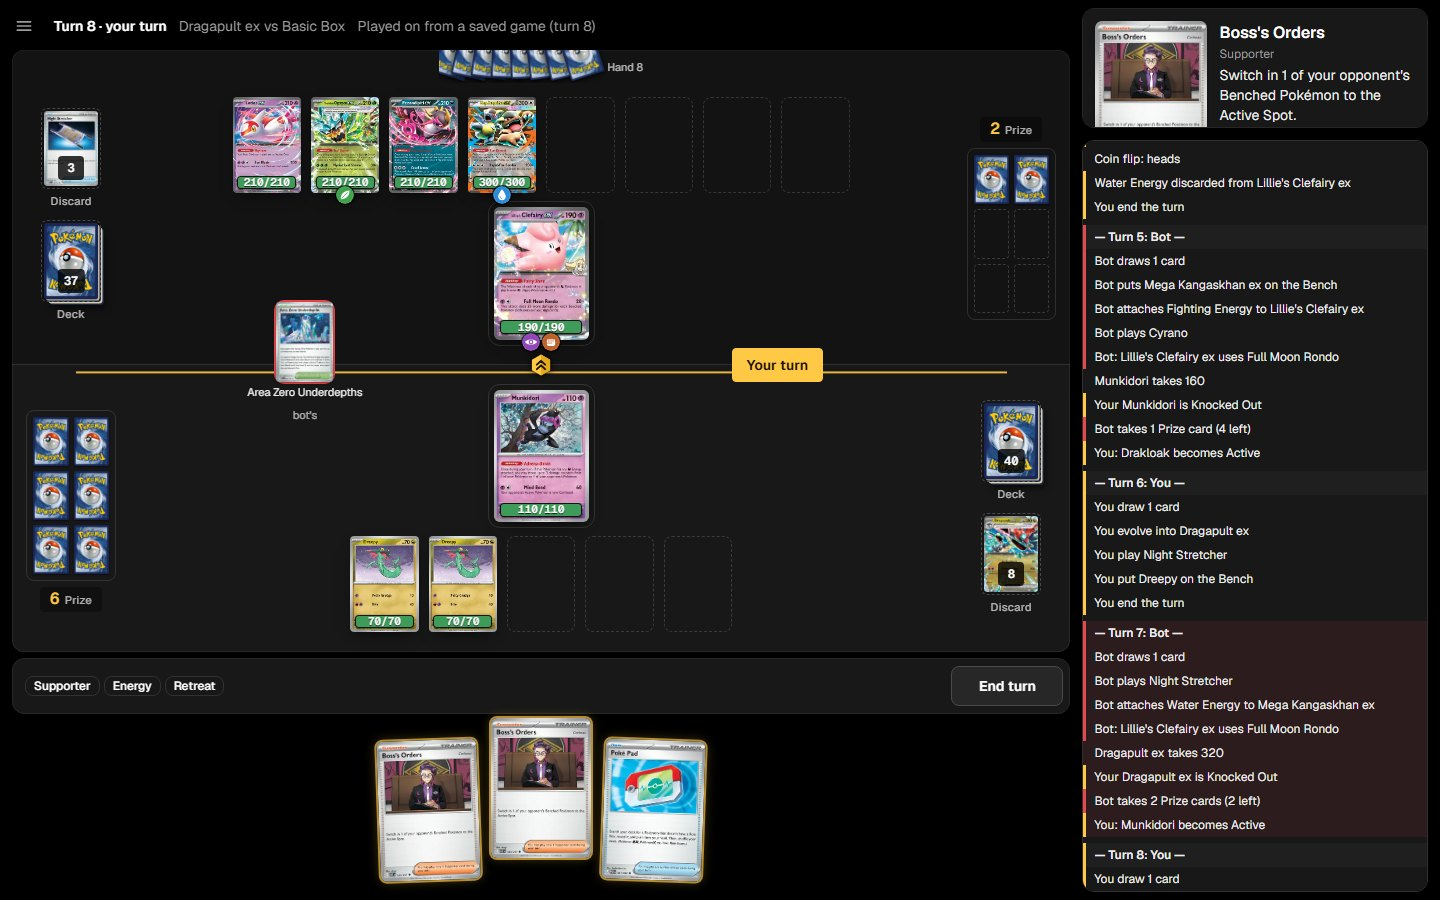
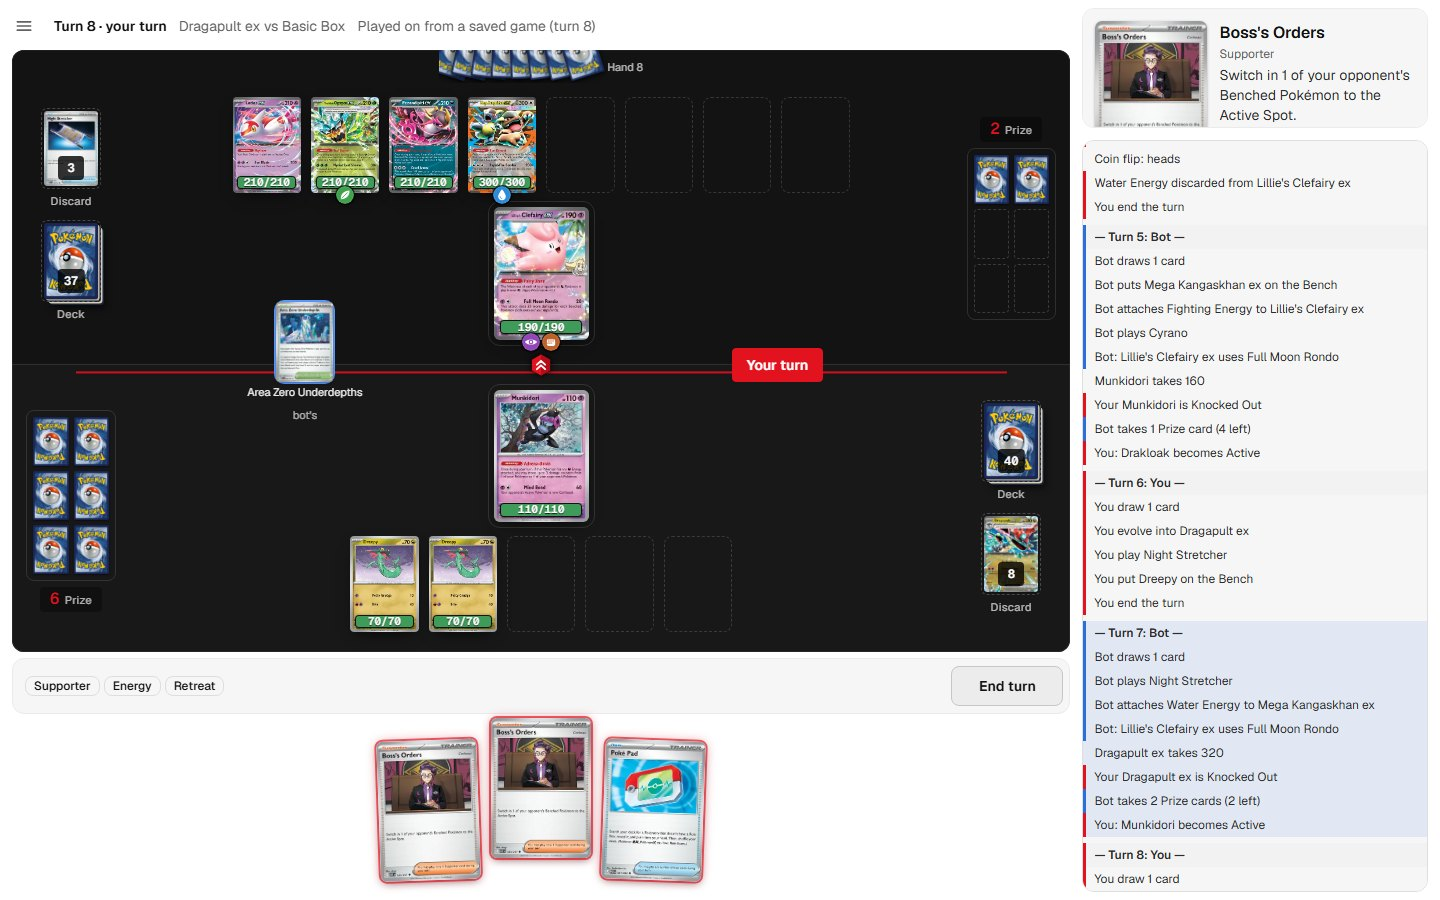
MyTrainerGym in a Pokémon Center's colours: a white page, one red, the rival in blue
The site turns light: white page, #F6F6F6 surfaces, near black ink, and a red brand (--brand) for the
main action, what can be played and your side. The bot is your rival in blue (--theirs = --rival:
its dots, log lines, turn glow and banner, a lost game); a deeper red stays for danger and mistakes,
and the review's warnings move to their own amber (--warn). The play mat keeps its dark surfaces
through a .dark scope (the board, a Pokémon's menu, the Prize pick). Logo and favicon in red and
white; home screenshots retaken.

Claude-Session: https://claude.ai/code/session_01C9NjE94n3rvf6xjp8K29Zd

diff --git a/src/components/review/TurnDetail.svelte b/src/components/review/TurnDetail.svelte
@@ -226,8 +226,8 @@
     color: #fff;
   }
   .badge.warn {
-    background: var(--accent);
-    color: var(--accent-ink);
+    background: var(--warn);
+    color: var(--warn-ink);
   }
   .badge.ok {
     border: 1px solid var(--line);
@@ -296,7 +296,7 @@
     border-radius: var(--radius-lg);
   }
   .way.bot {
-    border-color: color-mix(in srgb, var(--accent) 40%, transparent);
+    border-color: color-mix(in srgb, var(--warn) 40%, transparent);
   }
   .tag {
     display: block;
@@ -307,7 +307,7 @@
     font-weight: 600;
   }
   .way.bot .tag {
-    color: var(--accent);
+    color: var(--warn);
   }
   .moves {
     display: flex;
@@ -344,9 +344,9 @@
   .gains {
     margin-top: 12px;
     padding: 12px;
-    border: 1px solid color-mix(in srgb, var(--accent) 45%, transparent);
+    border: 1px solid color-mix(in srgb, var(--warn) 45%, transparent);
     border-radius: var(--radius-lg);
-    background: color-mix(in srgb, var(--accent) 6%, transparent);
+    background: color-mix(in srgb, var(--warn) 6%, transparent);
   }
   .gains h3 {
     margin: 0;
@@ -357,7 +357,7 @@
   }
   .gains h4 {
     margin: 12px 0 0;
-    color: var(--accent);
+    color: var(--warn);
     font-size: 12px;
     line-height: 16px;
     font-weight: 600;
@@ -383,7 +383,7 @@
     content: '•';
   }
   .facts.now li::before {
-    color: var(--accent);
+    color: var(--warn);
     content: '+';
     font-weight: 600;
   }

diff --git a/src/components/review/GameList.svelte b/src/components/review/GameList.svelte
@@ -325,7 +325,7 @@
   .card-title {
     grid-column: 1 / -1;
     margin: 0;
-    color: var(--gym);
+    color: var(--brand);
     font-size: 12px;
     line-height: 16px;
     font-weight: 600;
@@ -408,14 +408,14 @@
     height: 4px;
     overflow: hidden;
     border-radius: var(--radius-sm);
-    background: color-mix(in srgb, var(--stamp) 55%, var(--control));
+    background: color-mix(in srgb, var(--theirs) 55%, var(--control));
   }
   .vs .bar::before {
     content: '';
     position: absolute;
     inset: 0 auto 0 0;
     width: var(--w);
-    background: var(--gym);
+    background: var(--brand);
   }
   .wl {
     text-align: right;
@@ -457,8 +457,8 @@
     color: var(--primary-ink);
   }
   .res.lost {
-    border-color: color-mix(in srgb, var(--stamp) 50%, transparent);
-    color: var(--stamp);
+    border-color: color-mix(in srgb, var(--theirs) 50%, transparent);
+    color: var(--theirs);
   }
   .match {
     display: flex;
@@ -620,7 +620,7 @@
     color: var(--stamp);
   }
   .warn {
-    color: var(--accent);
+    color: var(--warn);
   }
   .nothing {
     color: var(--ink-soft);

diff --git a/src/components/game/Board.svelte b/src/components/game/Board.svelte
@@ -199,7 +199,7 @@
 {/snippet}
 
 <div
-  class="board"
+  class="board dark"
   data-zone="board"
   data-drop="play"
   class:play-ready={accepts('play')}
@@ -211,8 +211,8 @@
   <!-- The centre of the gym's floor, with its badge (BrandMark.astro's shape). -->
   <div class="midline" aria-hidden="true">
     <svg class="emblem" viewBox="0 0 32 32">
-      <path d="M16 2L28.12 9V23L16 30L3.88 23V9Z" fill="var(--gym)" />
-      <path d="M16 2L28.12 9V23L16 30Z" fill="var(--gym-deep)" />
+      <path d="M16 2L28.12 9V23L16 30L3.88 23V9Z" fill="var(--brand)" />
+      <path d="M16 2L28.12 9V23L16 30Z" fill="var(--brand-deep)" />
       <path d="M10.5 15.5L16 10.5L21.5 15.5M10.5 21.5L16 16.5L21.5 21.5" fill="none" stroke="var(--primary-ink)" stroke-width="2.6" stroke-linecap="round" stroke-linejoin="round" />
     </svg>
   </div>
@@ -375,7 +375,7 @@
     transform: translateY(calc(var(--row-gap) * 0.6));
   }
   .board.turn-theirs .midline::before {
-    --glow: var(--stamp);
+    --glow: var(--theirs);
     opacity: 0.7;
     transform: translateY(calc(var(--row-gap) * -0.6));
   }

diff --git a/src/components/review/WinChart.svelte b/src/components/review/WinChart.svelte
@@ -128,7 +128,7 @@
     border: 1px solid var(--rule);
     background: var(--card-bg);
     --critical: var(--stamp);
-    --warning: var(--accent);
+    --warning: var(--warn);
     border-radius: var(--radius-xl);
   }
   figcaption {
@@ -154,7 +154,7 @@
     display: inline-block;
     width: 16px;
     margin-left: 6px;
-    border-top: 2px solid var(--primary);
+    border-top: 2px solid var(--ink-strong);
   }
   .legend i.dash {
     border-top: 2px dashed var(--ink-soft);
@@ -191,7 +191,7 @@
     stroke-linecap: round;
   }
   .seg.mine {
-    stroke: var(--primary);
+    stroke: var(--ink-strong);
   }
   .seg.theirs {
     stroke: var(--ink-soft);
@@ -203,7 +203,7 @@
     stroke-width: 1.5;
   }
   .dot {
-    fill: var(--primary);
+    fill: var(--ink-strong);
     stroke: var(--card-bg);
     stroke-width: 2;
   }
@@ -255,7 +255,7 @@
     line-height: 16px;
     white-space: nowrap;
     pointer-events: none;
-    box-shadow: 0 4px 10px -4px #0008;
+    box-shadow: var(--shadow-lg);
   }
   .tip span {
     display: block;

diff --git a/src/components/game/PokemonMenu.svelte b/src/components/game/PokemonMenu.svelte
@@ -61,7 +61,7 @@
 
 <div class="scrim" role="presentation" onclick={onclose}></div>
 <div
-  class="pmenu"
+  class="pmenu dark"
   class:sheet
   style={pos}
   role="dialog"
@@ -297,7 +297,7 @@
   .use:hover:not(:disabled) {
     border-color: var(--ink-faint);
   }
-  /* Using an Ability: amber, what can be played now. */
+  /* Using an Ability: the accent, what can be played now. */
   .use.can {
     border-color: var(--accent);
     background: var(--accent);
@@ -399,7 +399,7 @@
   .attack.off .dmg {
     color: inherit;
   }
-  /* What the attack would do to their Active: green for damage, gold for a Knock Out. */
+  /* What the attack would do to their Active: green for damage, the accent for a Knock Out. */
   .pv {
     align-self: flex-start;
     padding: 2px 8px;

diff --git a/src/components/review/GameReview.svelte b/src/components/review/GameReview.svelte
@@ -335,8 +335,8 @@
     color: var(--primary-ink);
   }
   .res.lost {
-    border-color: color-mix(in srgb, var(--stamp) 50%, transparent);
-    color: var(--stamp);
+    border-color: color-mix(in srgb, var(--theirs) 50%, transparent);
+    color: var(--theirs);
   }
   .vs-word {
     color: var(--ink-soft);
@@ -380,7 +380,7 @@
     color: var(--stamp);
   }
   .warn {
-    color: var(--accent);
+    color: var(--warn);
   }
 
   /* A computer: the table on the left, the chart, the turns and the turn's detail on the right (it scrolls itself). */
@@ -448,7 +448,7 @@
     color: var(--stamp);
   }
   .turn-chip.better .v {
-    color: var(--accent);
+    color: var(--warn);
   }
   .turn-chip .d {
     color: var(--ink-soft);

diff --git a/src/components/game/PrizePick.svelte b/src/components/game/PrizePick.svelte
@@ -34,7 +34,7 @@
   const ready = $derived(picks.length === take);
 </script>
 
-<div class="prize-pick" role="dialog" aria-modal="true" aria-label={tx('เลือก Prize', 'Choose Prize cards')} transition:fade={{ duration: motion(180) }}>
+<div class="prize-pick dark" role="dialog" aria-modal="true" aria-label={tx('เลือก Prize', 'Choose Prize cards')} transition:fade={{ duration: motion(180) }}>
   <header>
     <p class="kicker">{knockedOut.length ? tx(`${knockedOut.join(', ')} ของบอทถูก Knock Out`, `The bot's ${knockedOut.join(', ')} Knocked Out`) : 'Knock Out'}</p>
     <h2>{tx(`เลือก Prize ${take} ใบ`, `Choose ${take} Prize ${take === 1 ? 'card' : 'cards'}`)}</h2>

diff --git a/src/components/game/Game.svelte b/src/components/game/Game.svelte
@@ -1400,10 +1400,10 @@
     width: 8px;
     height: 8px;
     border-radius: 50%;
-    background: var(--ink-strong);
+    background: var(--mine);
   }
   .them .who::before {
-    background: var(--stamp);
+    background: var(--theirs);
   }
   .fan {
     position: relative;
@@ -1895,7 +1895,7 @@
       width: min(360px, 88vw);
       padding: 12px;
       background: var(--paper);
-      box-shadow: -12px 0 30px -12px #000c;
+      box-shadow: -12px 0 30px -12px #0004;
       transform: translateX(105%);
       transition: transform 0.25s ease;
     }

diff --git a/src/components/game/LogPanel.svelte b/src/components/game/LogPanel.svelte
@@ -70,7 +70,7 @@
     border-left-color: var(--primary);
   }
   .line.bot {
-    border-left-color: var(--stamp);
+    border-left-color: var(--theirs);
   }
   .line.turn {
     margin-top: 6px;
@@ -79,7 +79,7 @@
   }
   /* The bot's turn just played, when yours starts. */
   .line.recent {
-    background: color-mix(in srgb, var(--stamp) 10%, transparent);
+    background: color-mix(in srgb, var(--theirs) 10%, transparent);
   }
   .line.at {
     background: color-mix(in srgb, var(--primary) 14%, transparent);

diff --git a/src/components/game/FxLayer.svelte b/src/components/game/FxLayer.svelte
@@ -134,7 +134,7 @@
   }
   .fx-layer :global(.fx-tag.gold) {
     background: var(--accent);
-    color: #15181d;
+    color: var(--accent-ink);
   }
   .fx-layer :global(.fx-tag.cond) {
     background: #6b2f8a;
@@ -261,9 +261,9 @@
     color: var(--accent);
   }
   .fx-layer :global(.fx-turn.theirs) {
-    border-color: #e2574b66;
+    border-color: #5b9bff66;
   }
   .fx-layer :global(.fx-turn.theirs strong) {
-    color: #ffb3aa;
+    color: #a9c9ff;
   }
 </style>

diff --git a/src/components/ui/Button.svelte b/src/components/ui/Button.svelte
@@ -1,5 +1,5 @@
 <script lang="ts">
-  // The one button: white for the main action of the moment, dark for the rest, red only for what can't be taken
+  // The one button: red for the main action of the moment, grey for the rest, a deeper red only for what can't be taken
   // back (leaving a game). 44px tall on touch screens.
   import type { Snippet } from 'svelte';
   import type { HTMLButtonAttributes } from 'svelte/elements';

diff --git a/src/components/review/ReplayViewer.svelte b/src/components/review/ReplayViewer.svelte
@@ -303,8 +303,8 @@
     color: #fff;
   }
   .badge.warn {
-    background: var(--accent);
-    color: var(--accent-ink);
+    background: var(--warn);
+    color: var(--warn-ink);
   }
   .badge.ok {
     border: 1px solid var(--line);
@@ -409,7 +409,7 @@
     color: var(--stamp);
   }
   .seg .diff.up {
-    color: var(--accent);
+    color: var(--teal);
   }
   .same {
     padding: 4px 12px;
